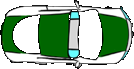
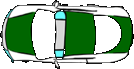
Grass is randomly moved around now

diff --git a/Game.java b/Game.java
@@ -2,31 +2,30 @@ package frogger;
 
 import java.awt.Canvas;
 import java.awt.Color;
-import java.awt.Dimension;
 import java.awt.Graphics;
-import java.awt.image.*;
+import java.awt.image.BufferedImage;
+import java.awt.image.BufferStrategy;
 import java.io.File;
-import javax.imageio.*;
+import javax.imageio.ImageIO;
 import javax.sound.sampled.*;
 import java.lang.Math;
 import java.util.Random;
 import java.util.ArrayList;
 import java.util.Arrays;
 import java.awt.Font;
+import java.util.Collections;
 
 public class Game extends Canvas implements Runnable{
     public static int WIDTH = 720;
-    public static int my_height = 92;
     public static int HEIGHT = 503;
+    public static int my_height = 92;
     private Thread thread;
     private boolean running = false;
     public Player player;
     private Handler handler;
     public int min_threshold = my_height * 7;
-    public BufferedImage image, rightcar_image0, leftcar_image0, rightcar_image1, rightcar_image2, leftcar_image1, leftcar_image2, death_image, grass_image;
-    public BufferedImage car_image;
+    public BufferedImage image, rightcar_image0, leftcar_image0, rightcar_image1, rightcar_image2, leftcar_image1, leftcar_image2, death_image, grass_image, car_image;
     public Clip first_clip;
-    public boolean can_move = true;
     public AudioInputStream audioInput;
     public int car_space = 15;
     public Random r = new Random();
@@ -37,8 +36,11 @@ public class Game extends Canvas implements Runnable{
     public int times_moved = 0;
     public int frames = 0;
     public int display_fps = 0;
-    long timer;
+    public long timer;
+    public boolean turn_to_grass = false;
     public ArrayList<BufferedImage> rightcars, leftcars;
+    public ArrayList<GameObject> reordered_grass = new ArrayList<GameObject>();
+    int amount_of_times_moved = 0;
     public Game(){
         player = new Player(WIDTH/2 - 24, 400, ID.Player);
         Window my_window = new Window(WIDTH, HEIGHT, "Frogger", this, player);
@@ -82,23 +84,36 @@ public class Game extends Canvas implements Runnable{
         for (GameObject i: handler.object){
             if (i.getID() == ID.Road){
                 i.inputImage = image; 
-            }
-            else if (i.getID() == ID.Car){
                 if (car_image == rightcar_image0){
-                    i.inputImage = rightcars.get(r.nextInt(rightcars.size()));
                     i.degrees = 90;
                     car_image = leftcar_image0;
                 }
                 else {
-                    i.inputImage = leftcars.get(r.nextInt(leftcars.size()));;
                     i.degrees = 270;
                     car_image = rightcar_image0;
+                }
+                for (GameObject j: i.car_array){
+                    j.degrees = i.degrees;
+                    if (i.degrees == 90){
+                        j.inputImage = rightcars.get(r.nextInt(rightcars.size()));
+                    }
+                    else {
+                        j.inputImage = leftcars.get(r.nextInt(leftcars.size()));
+                    }
                 }
             }
             else if (i.getID() == ID.Grass){
                 i.inputImage = grass_image;
+                if (car_image == rightcar_image0){
+                    i.degrees = 90;
+                    car_image = leftcar_image0;
+                }
+                else {
+                    i.degrees = 270;
+                    car_image = rightcar_image0;
+                }
             }
-            else {
+            else if (i.getID() == ID.Player) {
                 for (int j = 1; j < 8; j++){
                     try {
                         player.image_array[j - 1] = ImageIO.read(new File("frogger/Images/frog" + Integer.toString(j) + ".png"));
@@ -112,13 +127,13 @@ public class Game extends Canvas implements Runnable{
                 i.inputImage = i.image_array[0];
             }
         }
-        first_clip = play_music("frogger/Audio/start.wav");
         this.start();
     }
     public synchronized void start(){
         thread = new Thread(this);
         thread.start();
-        running = true;
+        running = true; 
+        first_clip = play_music("frogger/Audio/start.wav");
     }
     public synchronized void stop(){
         try {
@@ -139,11 +154,8 @@ public class Game extends Canvas implements Runnable{
         int y2 = object2.getY();
         int width2 = object2.inputImage.getWidth();
         int height2 = object2.inputImage.getHeight(); 
-        if(x1 < x2 + width2 &&
-            x1 + width1 > x2 &&
-            y1 < y2 + height2 &&
-            y1 + height1 > y2)
-        {
+        
+        if(x1 < x2 + width2 && x1 + width1 > x2 && y1 < y2 + height2 && y1 + height1 > y2){ 
             return true;
         }
         else {
@@ -167,19 +179,49 @@ public class Game extends Canvas implements Runnable{
     public void check_move_up(GameObject i){
         if (i.getY() >= min_threshold && i.how_many_moves <= 0){
             i.how_many_moves = min_threshold;
+            int random_num = r.nextInt((HEIGHT + 132) + 1) - 132;
             if (i.getID() == ID.Road){
                 i.setY(0 - my_height);
-                for (GameObject j: i.car_array){
-                    if (j.degrees == 90){
-                        j.inputImage = rightcars.get(r.nextInt(rightcars.size()));
+                if (my_score % 16 == 0 && turn_to_grass){
+                    i.setID(ID.Grass);
+                    i.inputImage = grass_image;
+                    reordered_grass.add(i);
+                    for (int j = 0; j < i.car_array.size(); j++){
+                        handler.removeObject(i.car_array.get(j));
+                        i.car_array.remove(i.car_array.get(j));
+                    }
+                }
+                else {
+                    for (GameObject j: i.car_array){
+                        j.degrees = i.degrees;
+                        if (j.degrees == 90){
+                            j.inputImage = rightcars.get(r.nextInt(rightcars.size()));
+                        }
+                        else {
+                            j.inputImage = leftcars.get(r.nextInt(leftcars.size()));
+                        }
+                        j.setY(i.getY() + car_space);
+                        j.setX(random_num);
+                    }
+                }      
+            }
+            else if (i.getID() == ID.Grass){
+                i.setY(0 - my_height);
+                i.setID(ID.Road);
+                if (amount_of_times_moved == 0){
+                    GameObject car = new GameObject(random_num, i.getY() + car_space, ID.Car, 0);
+                    i.car_array.add(car);
+                    handler.addObject(car);
+                    if (i.degrees == 90){
+                        car.inputImage = rightcars.get(r.nextInt(rightcars.size()));
                     }
                     else {
-                        j.inputImage = leftcars.get(r.nextInt(leftcars.size()));
+                        car.inputImage = leftcars.get(r.nextInt(leftcars.size()));
                     }
-                    int random_num = r.nextInt((HEIGHT + 132) + 1) - 132;
-                    j.setY(i.getY() + car_space);
-                    j.setX(random_num);
+                    car.degrees = i.degrees;
                 }
+                i.inputImage = image;
+                amount_of_times_moved++;
             }
             else {
                 i.setY(0 - my_height);
@@ -230,9 +272,9 @@ public class Game extends Canvas implements Runnable{
             }
             for (GameObject i: handler.object){
                 if (i.getID() == ID.Road || i.getID() == ID.Grass){
-                    check_move_up(i);
                     for (GameObject j: i.car_array){
                         if (has_collided(player, j) && player.dead == false){
+                            player.setMovement(false);
                             player.inputImage = death_image;
                             player.dead = true;
                             play_music("frogger/Audio/squashed.wav");
@@ -254,8 +296,24 @@ public class Game extends Canvas implements Runnable{
                             }
                         }  
                     }
+                    
                 }
             }
+            if (r.nextInt(3) == 0){
+                turn_to_grass = true;
+            }
+            for (int i = 0; i < handler.object.size(); i++){
+                if (handler.object.get(i).getID() == ID.Road || handler.object.get(i).getID() == ID.Grass){
+                    check_move_up(handler.object.get(i));
+                }
+            }
+            for (GameObject i: reordered_grass){
+                handler.removeObject(i);
+                handler.object.add(35, i);
+            }
+            reordered_grass.clear();
+            turn_to_grass = false;
+            amount_of_times_moved = 0;
             long now = System.nanoTime();
             delta += (now - lastTime) / ns;
             lastTime = now;
@@ -267,7 +325,6 @@ public class Game extends Canvas implements Runnable{
                 render();
             }
             frames++;
-            
         }
         stop();
     }

diff --git a/Keychecker.java b/Keychecker.java
@@ -3,11 +3,10 @@ import java.awt.event.KeyAdapter;
 import java.awt.event.KeyEvent;
 public class Keychecker extends KeyAdapter {
     Player player;
-    public Keychecker(Player player){
+    int width;
+    public Keychecker(Player player, int width){
         this.player = player;
-    }
-    public void keyTyped(KeyEvent e) {
-        // Invoked when a key has been typed.
+        this.width = width;
     }
     public void keyPressed(KeyEvent e) {
         if (e.getKeyCode() == KeyEvent.VK_W || e.getKeyCode() == KeyEvent.VK_UP){
@@ -23,14 +22,10 @@ public class Keychecker extends KeyAdapter {
             }
         }
         else if (e.getKeyCode() == KeyEvent.VK_D || e.getKeyCode() == KeyEvent.VK_RIGHT){
-            if (player.dead == false && player.getMovement() == false && player.getX() < 720 - player.max_int * 2){
+            if (player.dead == false && player.getMovement() == false && player.getX() < width - player.max_int * 2){
                 player.degrees = 90;
                 player.setMovement(true);
             }
         }
-    }
-
-    public void keyReleased(KeyEvent e) {
-        // Invoked when a key has been released.
     }
 }

diff --git a/Window.java b/Window.java
@@ -6,7 +6,7 @@ import javax.swing.JFrame;
 public class Window extends Canvas{
     public Window(int width, int height, String title, Game game, Player player){
         JFrame frame = new JFrame(title);
-        frame.addKeyListener(new Keychecker(player));
+        frame.addKeyListener(new Keychecker(player, width));
         frame.setPreferredSize(new Dimension(width, height));
         frame.setMinimumSize(new Dimension(width, height));
         frame.setMaximumSize(new Dimension(width, height));

diff --git a/GameObject.java b/GameObject.java
@@ -13,6 +13,7 @@ public class GameObject{
     protected ArrayList<GameObject> car_array = new ArrayList<GameObject>();
     protected int how_many_moves;
     protected int degrees = 0;
+    protected boolean first_object = false;
     public GameObject(int x, int y, ID id, int how_many_moves){
         this.x = x;
         this.y = y;

diff --git a/ID.java b/ID.java
@@ -1,5 +1,4 @@
 package frogger;
-
 public enum ID{
     Player(),
     Road(),
